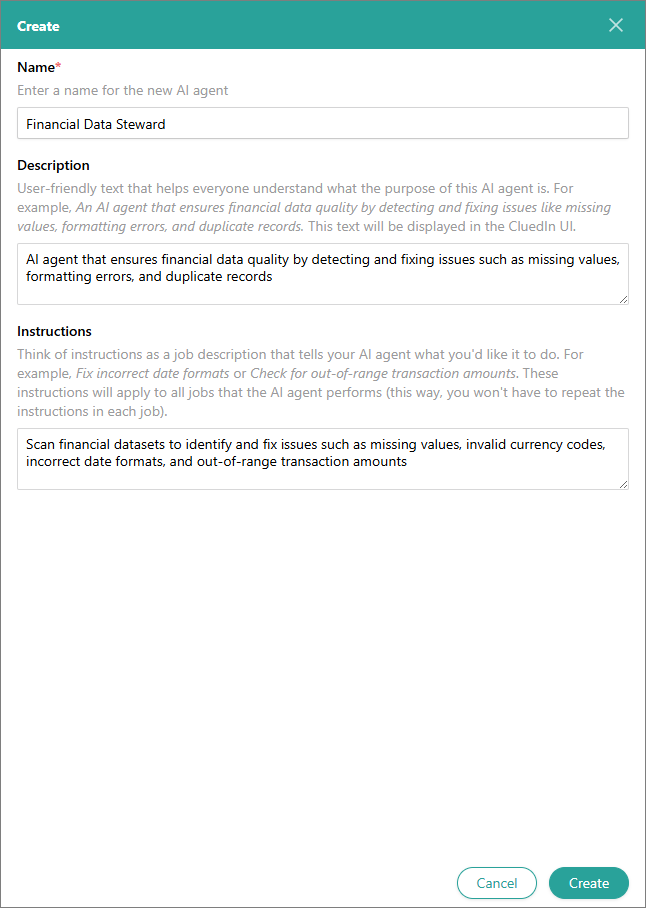
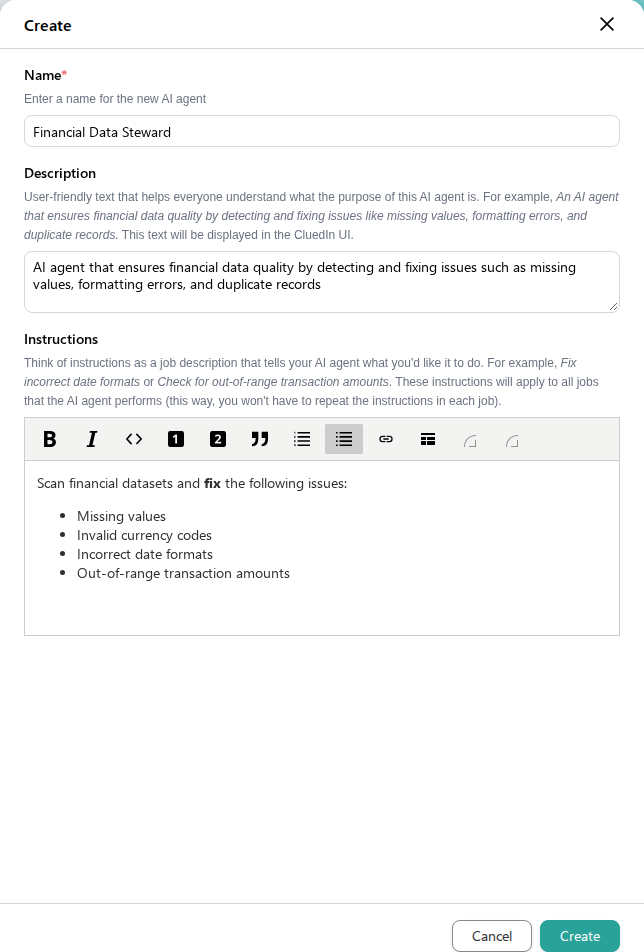
docs: Document the new rich text editor for AI agent Instructions
The Instructions field in the Create/Settings AI agent panel is now a
rich text editor (bold/italic/code, headings, blockquotes, lists, links,
tables) backed by Markdown. Update the create-an-AI-agent walkthrough and
its screenshot to match.

Changed region(s): [[0.0, 0.0, 1.0, 1.0], [0.0, 0.3392, 0.9627, 0.6167], [0.0, 0.9868, 0.0311, 1.0]]

diff --git a/docs/080-management/ai-agents/030-create-configure-and-run-an-ai-agent.md b/docs/080-management/ai-agents/030-create-configure-and-run-an-ai-agent.md
@@ -31,6 +31,8 @@ An AI agent is a component that uses artificial intelligence to analyze data, pr
 
 1. Provide **Instructions** for the AI agent. Think of instructions as a job description that tells your AI agent what you’d like it to do. For example, **Fix incorrect date formats** or **Check for out-of-range transaction amounts**.
 
+    Use the toolbar above the Instructions field to format your text with bold, italic, inline code, headings, blockquotes, bullet and numbered lists, links, and tables. The formatting is saved as Markdown, so instructions you have already written continue to work without any changes.
+
     {:.important}
     These instructions will apply to all [jobs](#configure-an-ai-agent-job) that the AI agent performs (this way, you won't have to repeat the instructions in each job).
 
